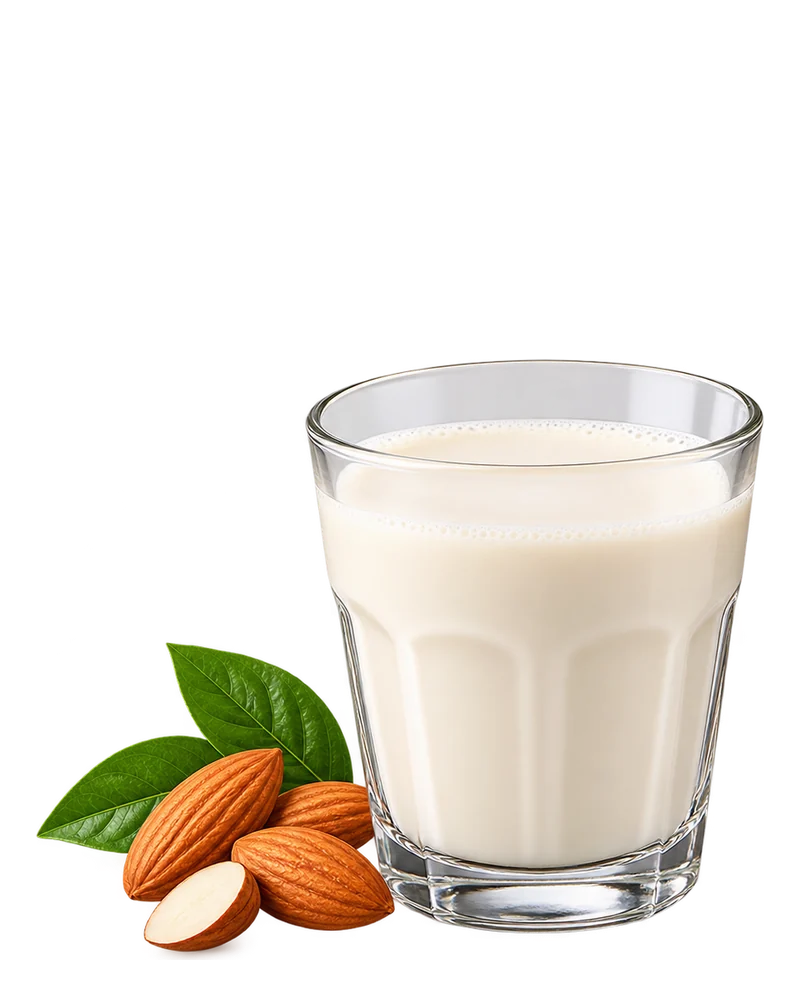
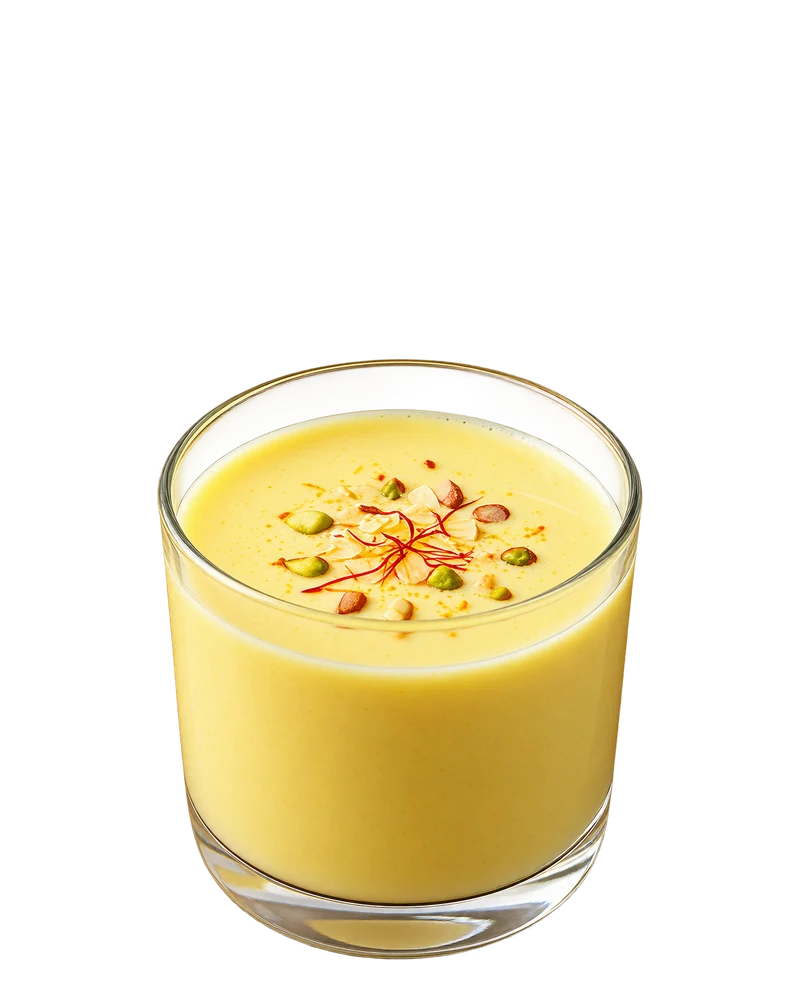
Swap the Milk plate for saffron badam milk
app/Badam.png at the client's direction, replacing the plain
milk-and-almonds glass. Clean 1312x1199 export with a real alpha channel,
so nothing had to be keyed: trimmed to its bbox, scaled to a 601px content
height — the mean of tea's 598 and coffee's 604 — then centred and
bottom-aligned at 96% like the rest of the row. The glass ends up the same
height as the one it replaces.

The filename stays menu-milk.webp. The card is the Milk category and this
photograph is one of its five options standing for the rest; renaming would
mean touching three call sites for nothing.

Every steam number had to be re-measured, and one of them was already
wrong. rim still read 30 from before that plate was resized from 691px to
601px of content, which had moved the glass top from 26.9% to 35.9% and
left the steam base hanging six points above the rim it was meant to sit
on. It is now 55 — the glass is squat and shot from a high angle, so the
milk surface is a wide open ellipse whose centre, found from the saffron
rosette floating on it, is 31.7% down the content.

This is also the first plate in the row with no side garnish, so the
content IS the glass: 486px wide against 728, cx at dead centre for the
first time, and mouth taken from the liquid (50%) rather than the outer
glass (59%) — CardSteam spreads the plume to mouth * 1.9, so the outer
figure would have thrown wisps 113% of the card wide into its neighbours.
[…]

diff --git a/components/sections/Menu.tsx b/components/sections/Menu.tsx
@@ -99,21 +99,64 @@ const CATEGORIES = [
     key: "milk",
     name: "Milk",
     count: "5 options",
-    /* REBUILT FROM app/milks.png, which is the client's transparent export at
-       1448x1086. The plate that shipped before it stood 691px tall in its
-       800x1000 frame against tea's 598 and coffee's 604 — 69% of the frame
-       where those two fill 60%, and the largest area of the four by a clear
-       margin, so it read as oversized next to its own row. The replacement is
-       trimmed to its alpha bbox and scaled to a 601px content height, the mean
-       of the two it sits between, then bottom-aligned at 96% like the rest of
-       the set. Rebuilding it at another size means going back to that source
-       rather than upscaling this. */
+    /* REBUILT FROM app/Badam.png at the client's direction — a glass of
+       saffron badam milk, replacing the plain milk-and-almonds plate. The
+       source is a clean 1312x1199 export with a real alpha channel, so
+       nothing had to be keyed; it is trimmed to its alpha bbox and scaled to
+       a 601px content height, the mean of tea's 598 and coffee's 604, then
+       centred and bottom-aligned at 96% like the rest of the set. Rebuilding
+       it at another size means going back to that source rather than
+       upscaling this. app/milks.png, which the previous plate came from, is
+       still on disk.
+
+       THE FILENAME STILL SAYS milk, AND THAT IS DELIBERATE. The card is the
+       Milk category — "5 options" — and this photograph is one of them
+       standing for the rest. Renaming the file would mean touching three
+       call sites for no gain.
+
+       IT IS THE FIRST PLATE IN THE ROW WITH NO SIDE GARNISH, which changes
+       every number below. The other three are a vessel plus leaves or beans
+       spread out beside it, so their content runs 92% of the frame wide and
+       the glass itself sits well inside that. Here the content IS the glass:
+       486px wide against the old plate's 728. Same glass height, narrower
+       plate, and cx lands at dead centre for the first time.
+
+       rim / cx / mouth ARE MEASURED OFF THIS PHOTOGRAPH, and the last set
+       had gone stale — proof that they cannot be left alone when the picture
+       changes. The old entry still read rim: 30 from before that plate was
+       resized from 691px to 601px of content, which moved the glass top from
+       26.9% down to 35.9% and left the steam base hanging 6 points ABOVE the
+       rim it was supposed to sit on.
+
+       rim IS 55, WHICH LOOKS LOW AND IS NOT. The glass is squat and shot
+       from a high angle, so the milk surface is a wide open ellipse rather
+       than a sliver: its centre — found from the saffron rosette floating on
+       it — is 31.7% down the content, which is 55% down the frame. The steam
+       base lands on the garnish, which is exactly where the liquid is.
+
+       mouth IS THE LIQUID, NOT THE GLASS. Walking in along the surface row,
+       the wall and its specular highlight run to x 290 and the saturated
+       milk starts at 300; the same on the right at 1015 against an outer
+       edge of 1081. That is 50% of the frame against the outer glass's 59.
+       CardSteam spreads the plume to mouth * 1.9, so taking the outer figure
+       would have pushed wisps 113% of the card wide, into its neighbours.
+
+       wash IS THE DRINK'S OWN LIT BAND, PULLED DOWN TO 208. Sampled straight,
+       the top quartile of this liquid means #F8E289 at luminance 222, above
+       the 148-210 the other three occupy — badam milk is simply the palest
+       thing in the row, and the ground behind it is espresso. Scaling that
+       colour to 208 keeps the saffron hue and lands it at the pale end where
+       the milk card already sat. */
     img: "/img/menu-milk.webp",
-    alt: "A tall milk beverage with almonds and cardamom",
-    wash: "#E7CFA6",
-    rim: 30,
-    cx: 66,
-    mouth: 51,
+    alt: "Badam milk in a glass tumbler, topped with saffron, pistachio and almond flakes",
+    wash: "#E8D480",
+    rim: 55,
+    cx: 50,
+    mouth: 50,
+    /* CardSteam's own note calls variant 2 "a tall glass of warm badam milk
+       — few, wide, slow and faint". That was written about the drink this
+       card is named for rather than the one it was showing. It is now the
+       drink in the photograph. */
     steam: true,
   },
   {

diff --git a/app/service/ServiceView.tsx b/app/service/ServiceView.tsx
@@ -78,7 +78,7 @@ const STEPS = [
 const DRINKS = [
   { name: "Tea", count: "8 blends", img: "/img/menu-tea.webp", alt: "A glass of masala chai with loose tea leaves" },
   { name: "Coffee", count: "6 roasts", img: "/img/menu-coffee.webp", alt: "South Indian filter coffee in a brass tumbler and davara" },
-  { name: "Milk", count: "5 options", img: "/img/menu-milk.webp", alt: "A tall milk beverage with almonds and cardamom" },
+  { name: "Milk", count: "5 options", img: "/img/menu-milk.webp", alt: "Badam milk in a glass tumbler, topped with saffron, pistachio and almond flakes" },
   { name: "Seasonal", count: "2 specials", img: "/img/menu-sarbath.webp", alt: "Rose sarbath over ice with lemon, mint and basil seeds" },
 ];
 

diff --git a/app/menu/MenuView.tsx b/app/menu/MenuView.tsx
@@ -62,7 +62,7 @@ const DRINKS = [
     name: "Milk",
     count: "5 options",
     img: "/img/menu-milk.webp",
-    alt: "A tall milk beverage with almonds and cardamom",
+    alt: "Badam milk in a glass tumbler, topped with saffron, pistachio and almond flakes",
   },
   {
     name: "Seasonal",
